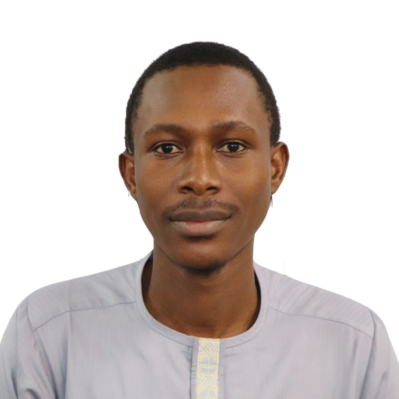
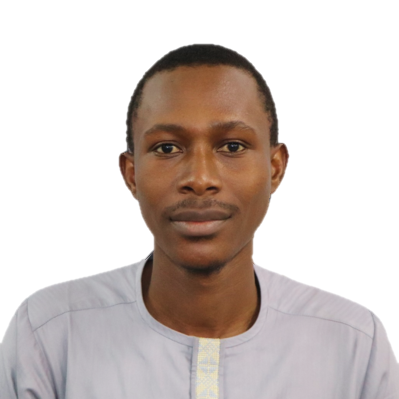
amelioration du profil

diff --git a/src/styles/global.css b/src/styles/global.css
@@ -7,6 +7,8 @@
 :root {
   --bg: #ffffff;
   --bg-soft: #f6f8fb;
+  --card: #ffffff;
+  --chip-bg: #ffffff;
   --panel: #f1f5f9;
   --brand: #14365d;
   --brand-soft: rgba(20, 54, 93, 0.08);
@@ -22,33 +24,39 @@
   --amber-text: #b45309;
   --shadow-card: 0 4px 20px -2px rgba(15, 23, 42, 0.05);
   --shadow-hover: 0 14px 34px -4px rgba(15, 23, 42, 0.1);
+  --shadow-btn: 0 4px 14px rgba(20, 54, 93, 0.22);
   color-scheme: light;
 }
 
 :root.dark {
   --bg: #0b0f19;
-  --bg-soft: #0f1524;
-  --panel: #151c2e;
+  --bg-soft: #0e1422;
+  --card: #131b2e;
+  --chip-bg: #19233a;
+  --panel: #182238;
   --brand: #8db4e8;
-  --brand-soft: rgba(141, 180, 232, 0.12);
+  --brand-soft: rgba(141, 180, 232, 0.14);
   --on-brand: #0b0f19;
   --ink: #f1f5f9;
   --text: #dbe4f0;
   --muted: #9aaac0;
-  --line: rgba(255, 255, 255, 0.09);
-  --line-hover: rgba(141, 180, 232, 0.35);
+  --line: rgba(255, 255, 255, 0.10);
+  --line-hover: rgba(141, 180, 232, 0.38);
   --green-bg: rgba(16, 185, 129, 0.14);
   --green-text: #34d399;
   --amber-bg: rgba(245, 158, 11, 0.14);
   --amber-text: #fbbf24;
-  --shadow-card: 0 4px 20px -2px rgba(0, 0, 0, 0.35);
-  --shadow-hover: 0 14px 34px -4px rgba(0, 0, 0, 0.5);
+  --shadow-card: 0 6px 24px -4px rgba(0, 0, 0, 0.45);
+  --shadow-hover: 0 16px 36px -4px rgba(0, 0, 0, 0.65);
+  --shadow-btn: 0 4px 16px rgba(141, 180, 232, 0.22);
   color-scheme: dark;
 }
 
 @theme inline {
   --color-bg: var(--bg);
   --color-soft: var(--bg-soft);
+  --color-card: var(--card);
+  --color-chip: var(--chip-bg);
   --color-panel: var(--panel);
   --color-brand: var(--brand);
   --color-brand-soft: var(--brand-soft);
@@ -95,7 +103,7 @@ body {
   .section-soft { @apply py-20 bg-soft border-y border-line; }
 
   .card {
-    @apply rounded-2xl border border-line bg-bg shadow-card transition duration-200;
+    @apply rounded-2xl border border-line bg-card shadow-card transition duration-200;
   }
   .card-hover { @apply hover:border-line-hover hover:shadow-hover hover:-translate-y-0.5; }
 
@@ -106,14 +114,14 @@ body {
   .tag-neutral { @apply bg-panel text-muted; }
 
   .chip {
-    @apply rounded-md border border-line bg-bg px-2.5 py-1 text-[0.8rem] font-semibold text-body;
+    @apply rounded-md border border-line bg-chip px-2.5 py-1 text-[0.8rem] font-semibold text-body;
   }
   .chip-major { @apply bg-brand-soft border-brand/20 text-brand; }
 
   .btn {
     @apply inline-flex items-center gap-2 rounded-[10px] px-5 py-3 text-[0.94rem] font-semibold transition duration-200 hover:-translate-y-0.5;
   }
-  .btn-solid { @apply bg-brand text-on-brand shadow-[0_4px_14px_rgba(20,54,93,0.22)] hover:opacity-90; }
+  .btn-solid { @apply bg-brand text-on-brand shadow-[var(--shadow-btn)] hover:opacity-90; }
   .btn-outline { @apply border-[1.5px] border-brand/30 bg-bg text-brand hover:bg-soft hover:border-brand; }
 
   .ext-link {
